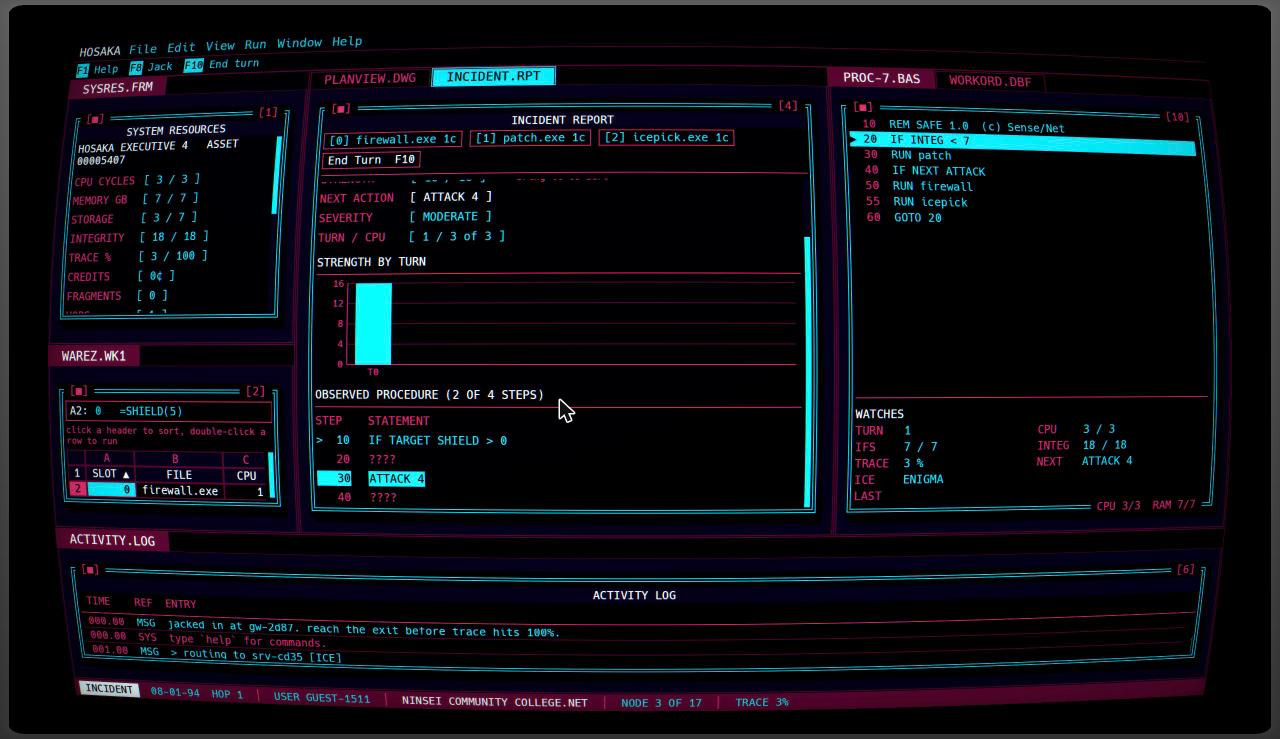
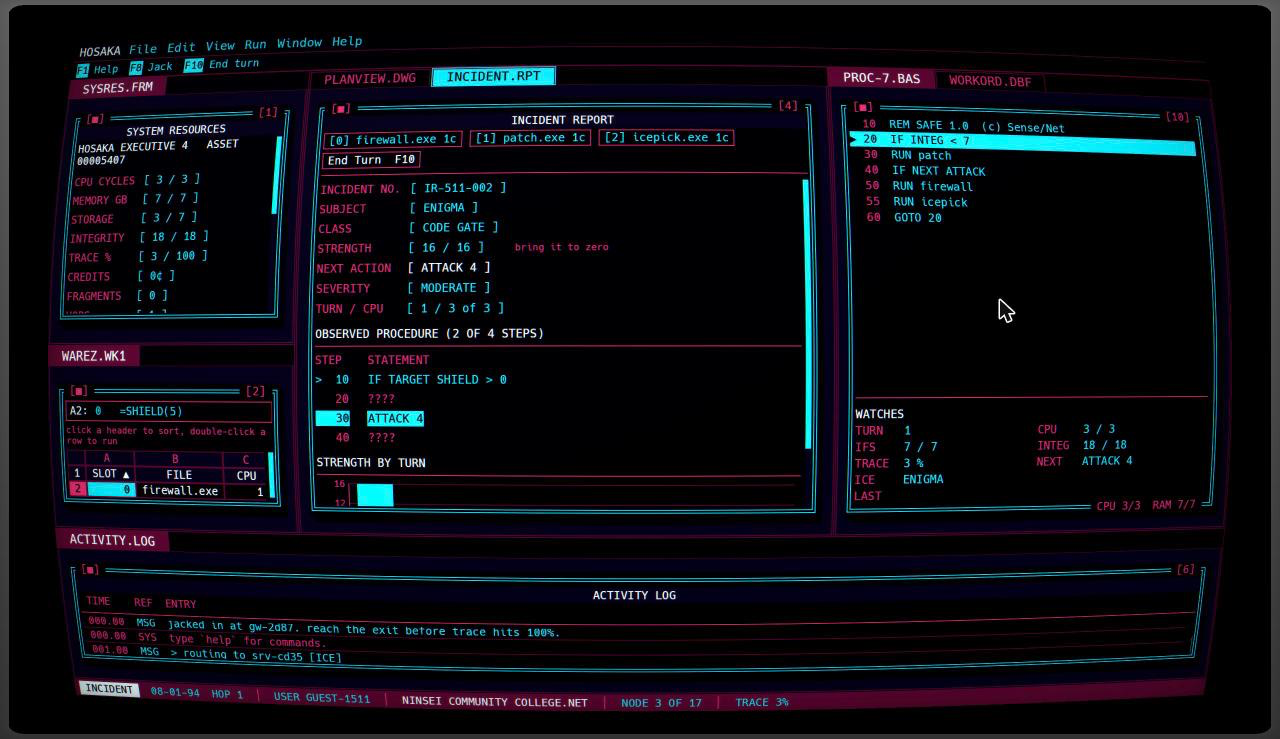
docs: the Hosaka and Ono shots retaken after the review's layout fixes

diff --git a/docs/design.md b/docs/design.md
@@ -196,7 +196,7 @@ One pass through the program is one turn: start at the first line and run until 
 
 **NEXT is a dry run.** What the card telegraphs is the ICE's program walked from where it is to its first action, its IFs read against the fight as it stands, with no side effects and nothing from the RNG; it is asked again whenever it's shown or read, so it changes during your turn when you change what the ICE reads. Shield against Enigma (`10 IF TARGET SHIELD > 0` / `20 TRACE 10` / `30 ATTACK 4`) and its NEXT turns from ATTACK to TRACE on screen before it acts; that flip is the point, the preview being the rule. Lagged, or a program that would stall or run out of RAM first, has no NEXT. Only the next move is known: past it the ICE reads the fight as it will be then, so no screen lists moves ahead.
 
-**The ICE on screen is what the deck has seen it run** (141.3.2). Each line an ICE's pass executes is remembered (`IceSeen::lines`, kept across runs), and every screen shows its program decompiled from those lines, the rest `????`, with a mark on the line it carries on from and NEXT's line emphasised: the Sense/Net's ICE card lists it under the hotbar ("its program: 2 of 4 lines seen"); the Ono-Sendai's fight view lists three lines under NEXT and target.ice a window under `PROG 2/4`, in btop's lowercase; the Hosaka's incident report has an OBSERVED PROCEDURE table (step, statement) in place of the agenda. A new ICE starts as all `????` with NEXT on top, and a well-studied one is clear from its first turn. The ICE DB prints the same decompile on each met ICE's page ("decompiled, 2 of 4 lines seen"), so studying the bestiary is how you write the counter. The deck only shows what it watched run: it never prints a line the ICE hasn't executed in front of it.
+**The ICE on screen is what the deck has seen it run** (141.3.2). Each line an ICE's pass executes is remembered (`IceSeen::lines`, kept across runs), and every screen shows its program decompiled from those lines, the rest `????`, with a mark on the line it carries on from and NEXT's line emphasised: the Sense/Net's ICE card lists it under the hotbar ("its program: 2 of 4 lines seen"); the Ono-Sendai's fight view lists three lines under NEXT and target.ice a window under `PROG 2/4`, in btop's lowercase; the Hosaka's incident report has an OBSERVED PROCEDURE table (step, statement) straight after its form, in place of the agenda and before the strength chart. A new ICE starts as all `????` with NEXT on top, and a well-studied one is clear from its first turn. The ICE DB prints the same decompile on each met ICE's page ("decompiled, 2 of 4 lines seen"), so studying the bestiary is how you write the counter. The deck only shows what it watched run: it never prints a line the ICE hasn't executed in front of it.
 
 **The nine ICE read you.** A barrier fortifies (Ice Wall digs in once you've spent your cycles, Bulwark rebuilds when it's hurt), a code gate traces (Enigma and Tollbooth when you shield, Tollbooth when you patch), a sentry hits (Rototurret when your integrity dips, Hunter the turn you patch); black ICE are longer programs with more RAM (Archer traces a firewall out and shoots when it's down, harder when you're weak; Hydra traces every shield and patch and rewrites itself as it does) and lower base strength, since the layers they sit in add to it. Tier 1 is three or four lines. Firewalling on `NEXT ATTACK` is no longer free against an ICE that reads the shield: the answer is a better program, not a number.
 
